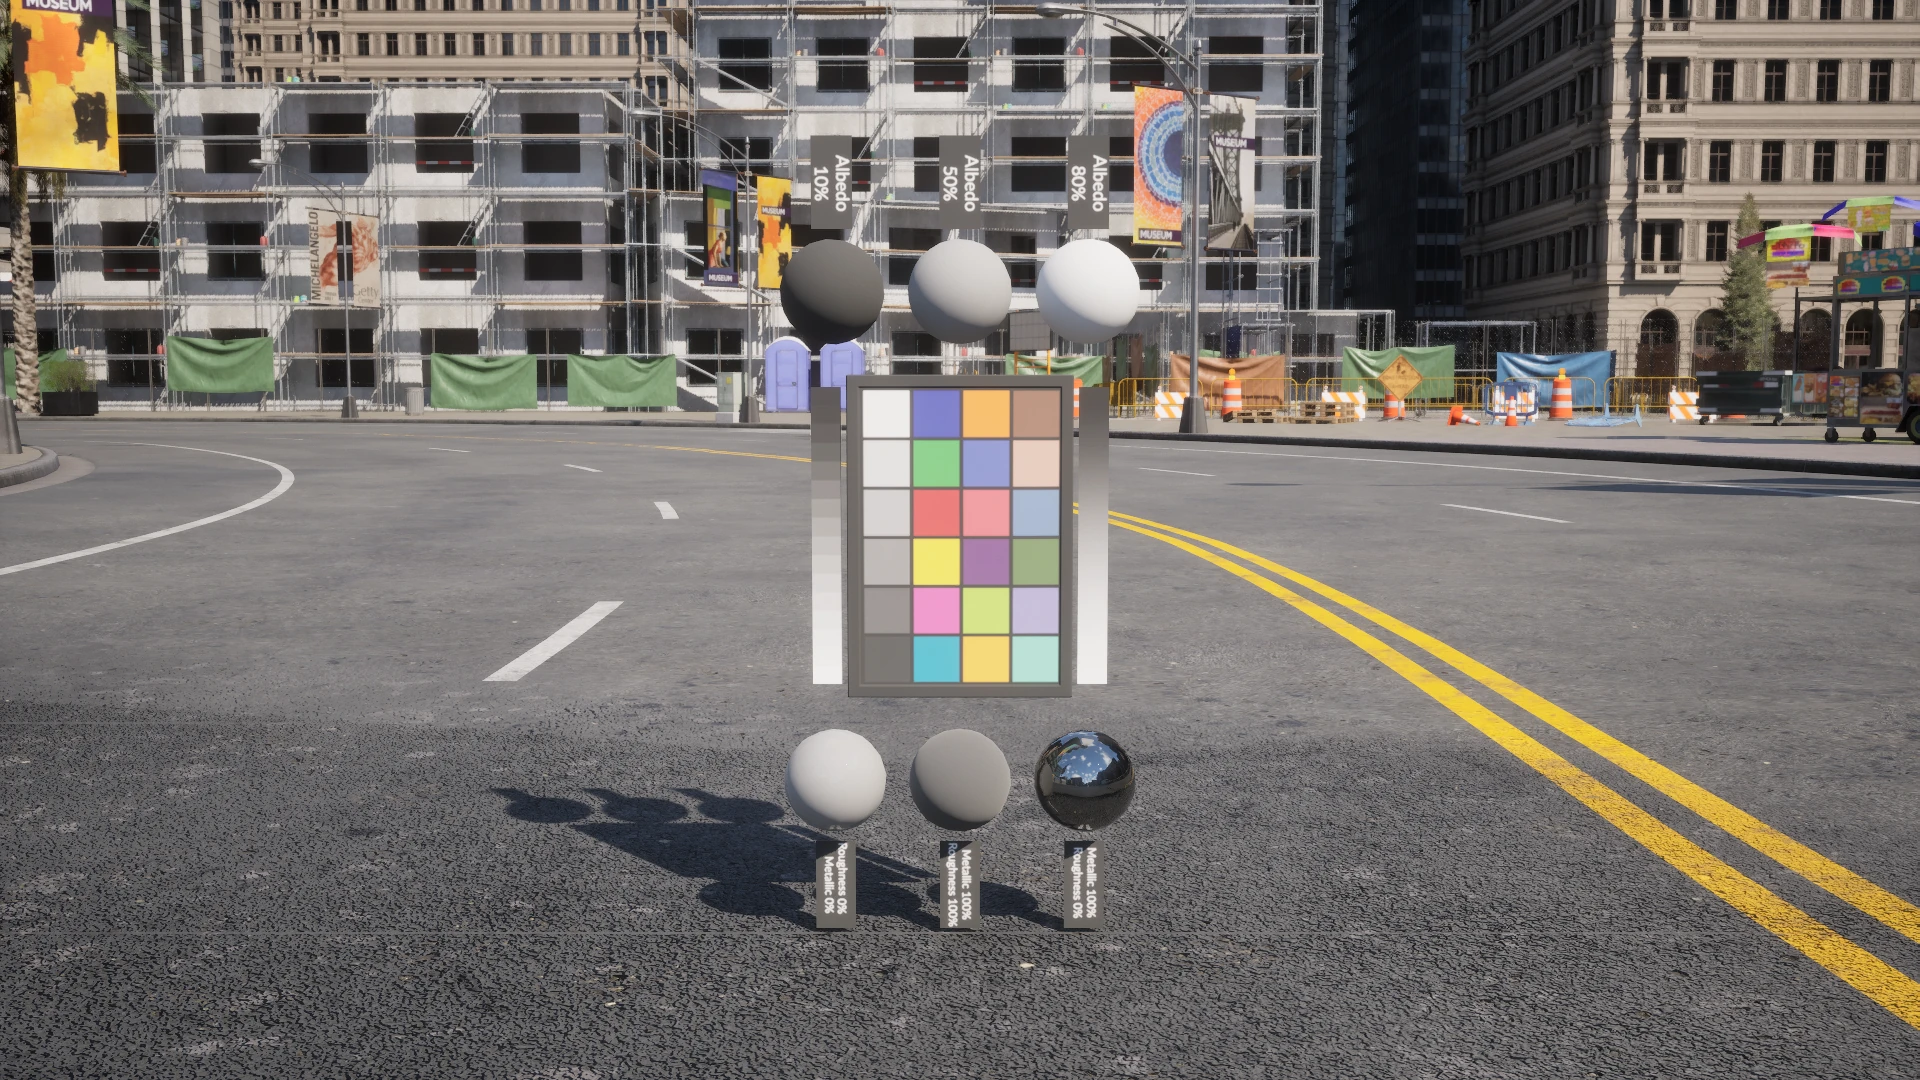
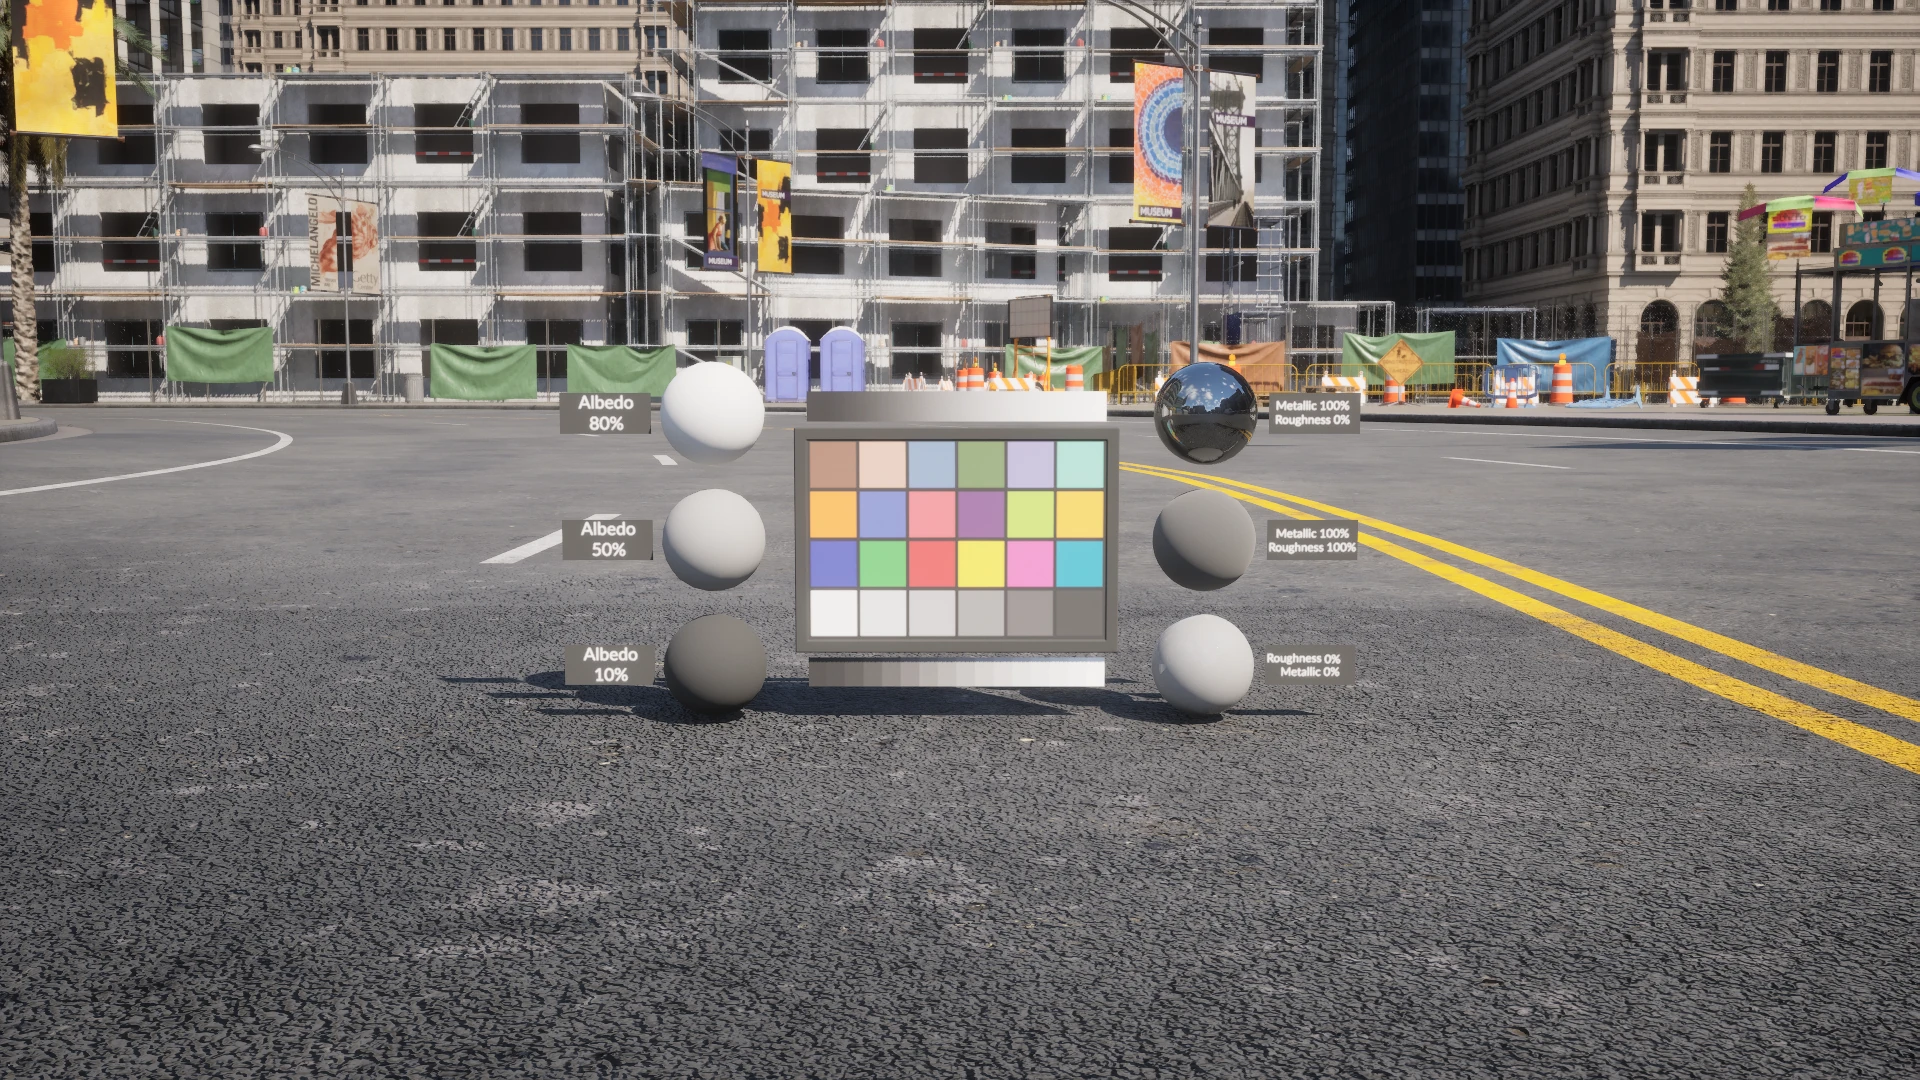
docs(catalogue): calibrator chart in landscape, labels upright
Stand the calibrator up with yaw -90 / roll 90 (bearing 90 keeps the camera in front), so the chart is landscape and the sphere labels read the right way up.

diff --git a/PythonAPI/docs/catalogue_doc_gen.py b/PythonAPI/docs/catalogue_doc_gen.py
@@ -557,17 +557,18 @@ def prop_entries(library):
 
 
 # Props whose mesh lies down: the rotation (degrees) added at spawn to stand
-# them up. Yaw is no use here: frame_actor places the camera relative to the
-# actor's heading, so turning the actor turns the camera with it.
+# them up. frame_actor places the camera relative to the actor's heading, so a
+# yaw here turns the camera too; PROP_FRAMING's bearing compensates for it.
 PROP_ROTATION = {
-    'static.prop.calibrator': {'pitch': -90.0},   # the colour chart lies flat; stand it up
+    # the colour chart lies flat: stand it up, landscape, facing the heading
+    'static.prop.calibrator': {'yaw': -90.0, 'roll': 90.0},
 }
 
 # Per-prop framing that replaces the capture's defaults; `bearing` is measured
 # from the actor's heading, so 180 + the default shows a prop modelled back to front.
 PROP_FRAMING = {
     'static.prop.vendingmachine': {'bearing': 215.0},
-    'static.prop.calibrator': {'bearing': 0.0, 'pitch': -5.0},
+    'static.prop.calibrator': {'bearing': 90.0, 'pitch': -5.0},
 }
 
 
